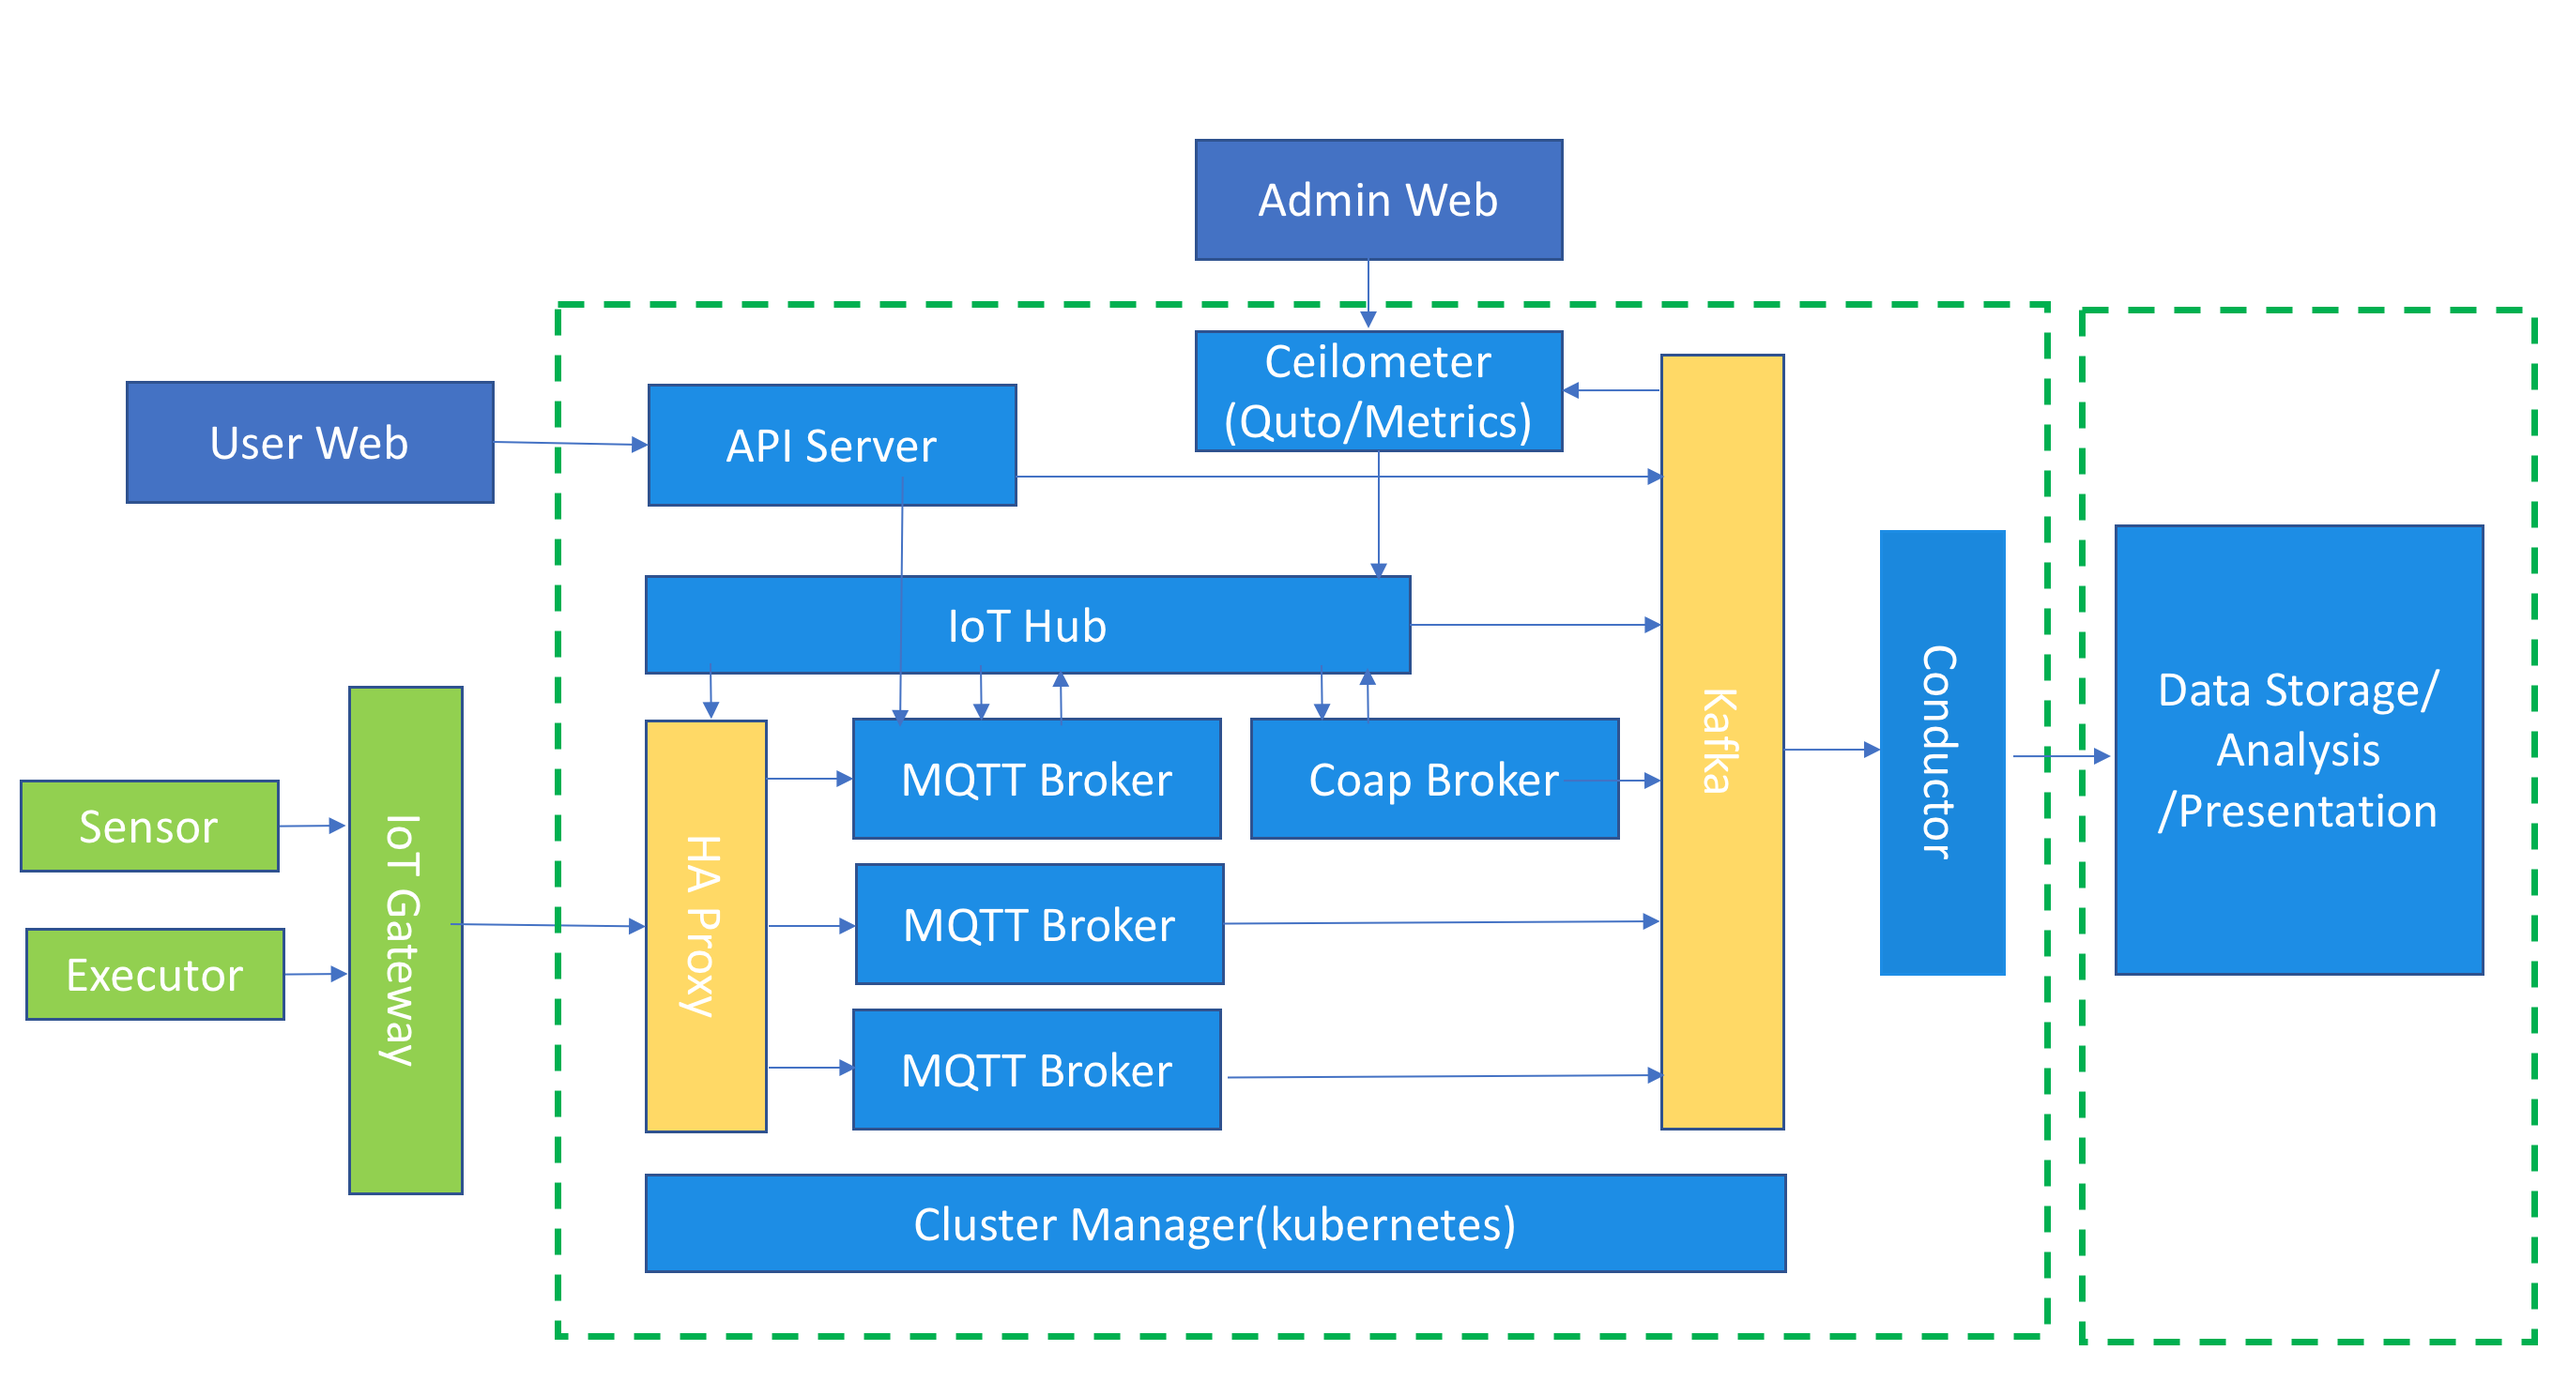
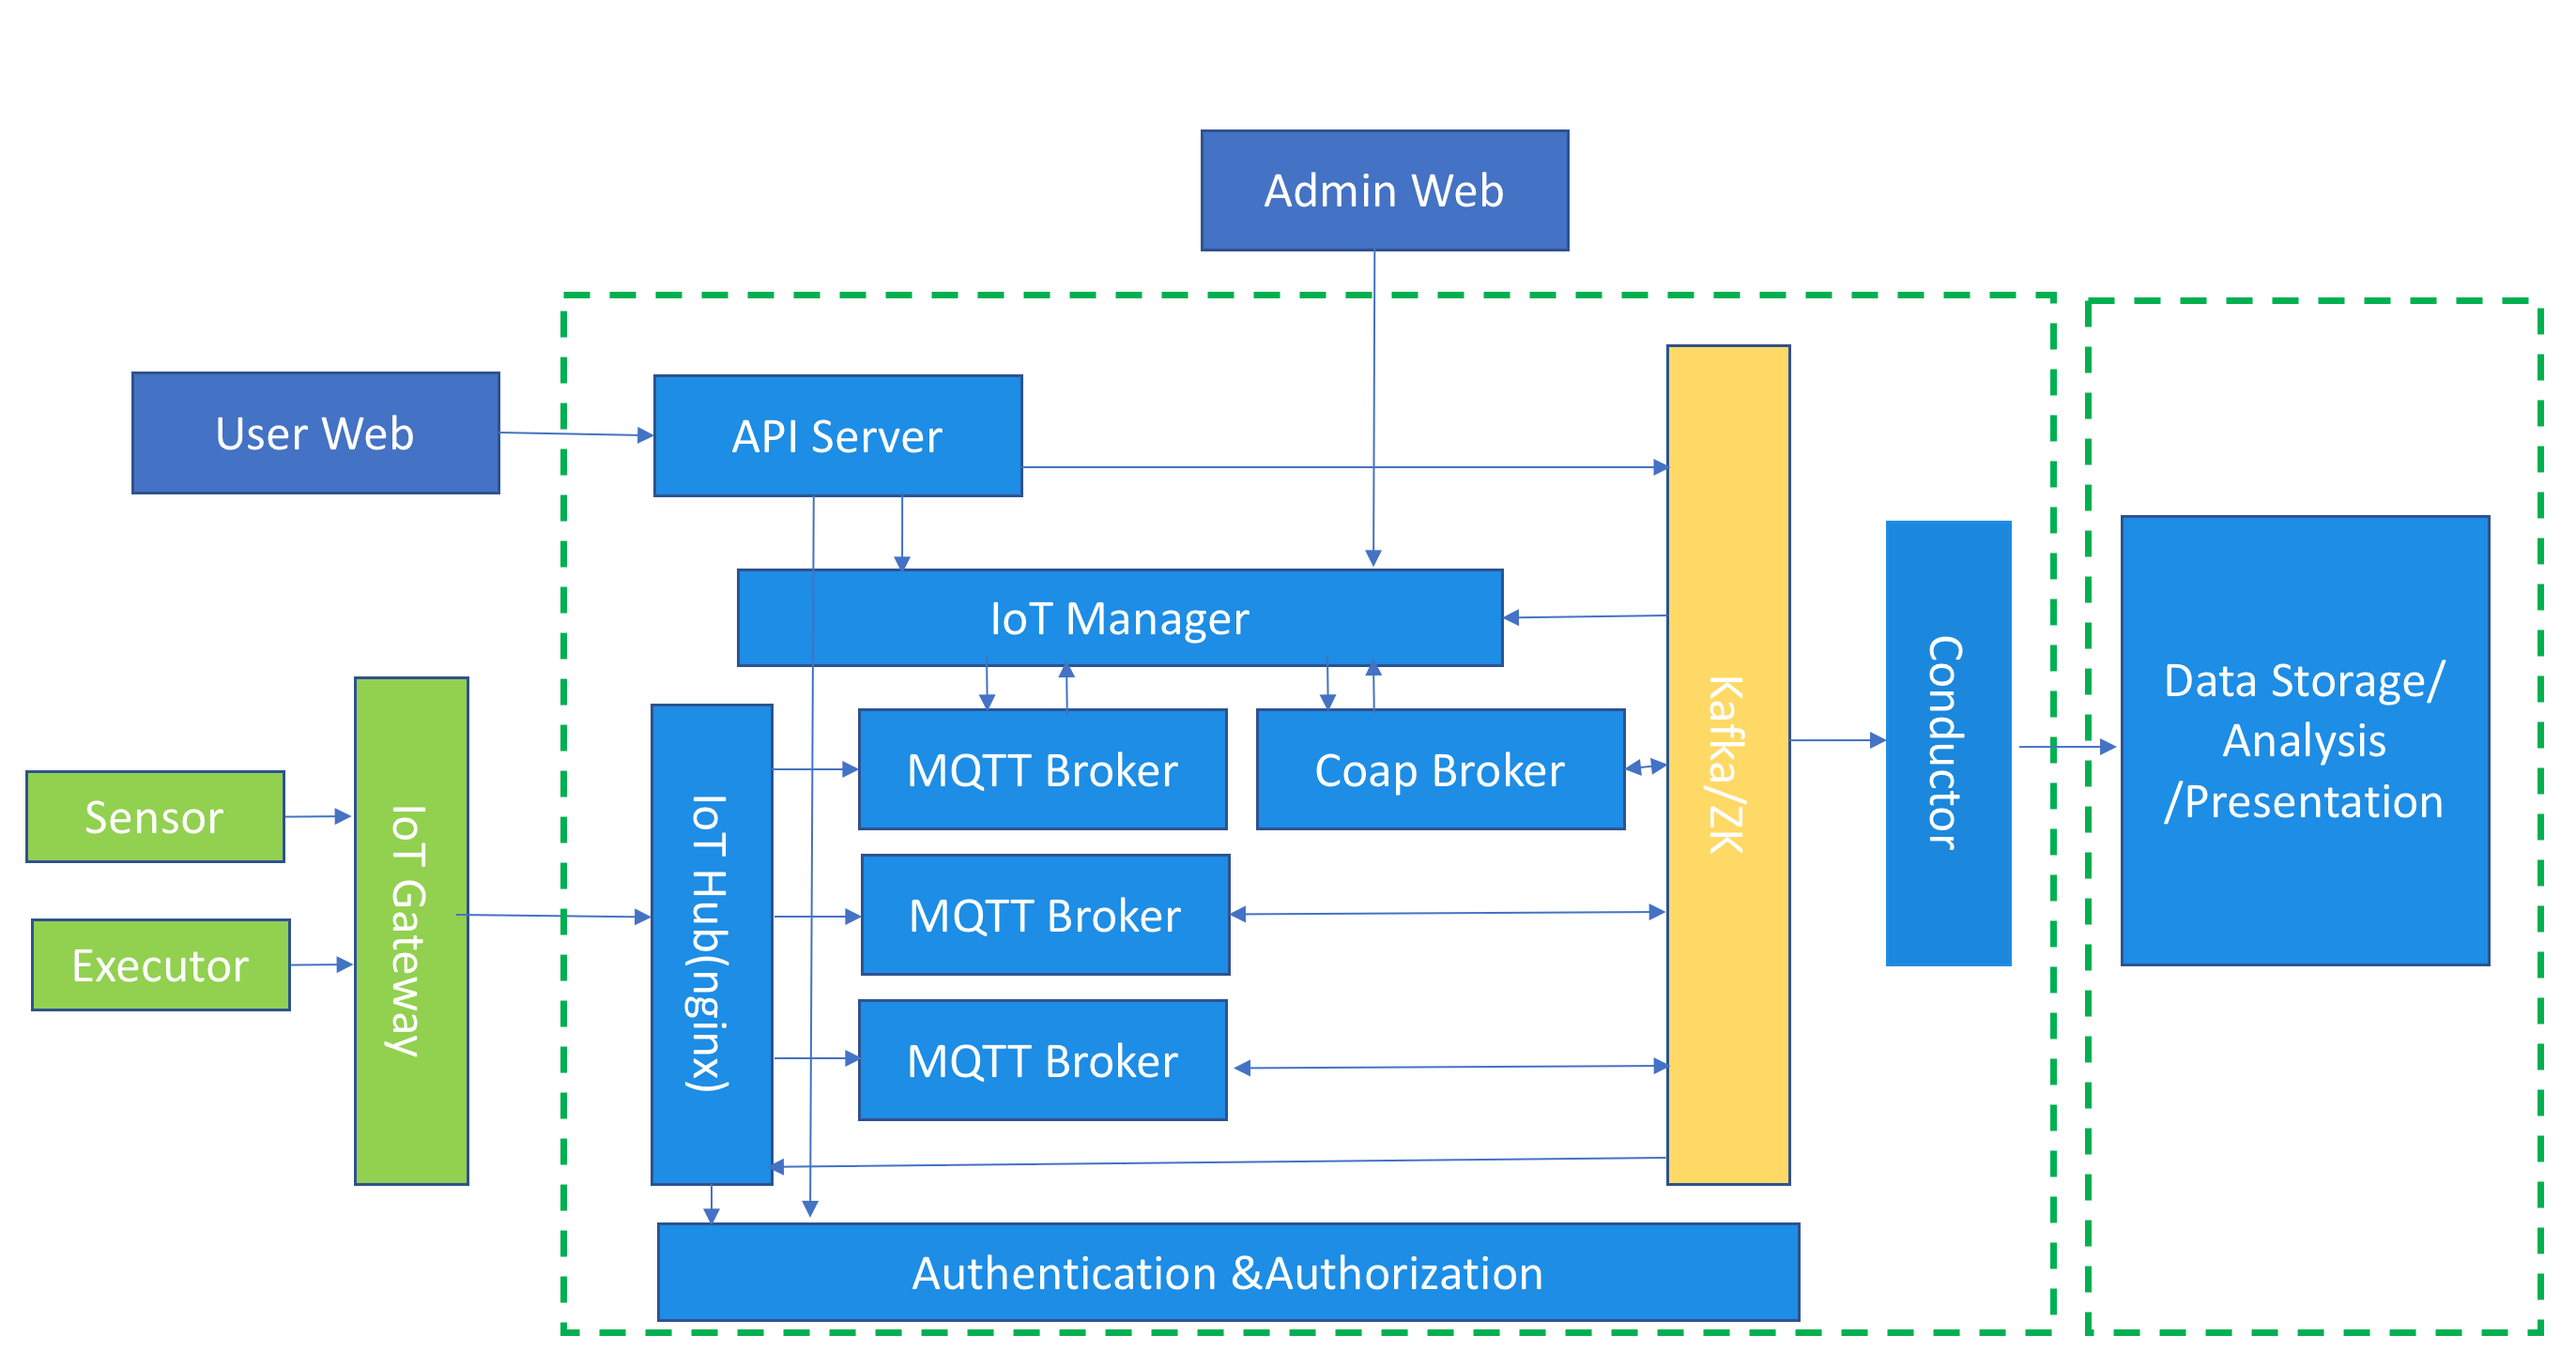
update sentel architecture image in docs

diff --git a/README.md b/README.md
@@ -3,15 +3,15 @@ Overview
 Sentel is iot cloud platform which can be deployed in private enterprise environment to provide the following functions.
 
 * Allow devices to connect with iot cloud platform by MQTT/Coap
-* Easyly manage products and devices using web services
+* Manage products and devices using web services
 * Many methods to analyze big data received from devices
 * High performance and availiabity
 
 Sentel is servie cluster based on micro service architecutre which include the following components.
 
- * API server is used for web, to provide iot manage role.
-*  Iothub server provide device connection and message service(MQTT/Coap)
-*  Keystone is authentication service
+* API server is used for web, to provide iot manage role.
+* Iothub server provide device connection and message service(MQTT/Coap)
+* Keystone is authentication service
 * Other service
  
 Other service is not be designed till now. because the short time gola is device connection and message or data transimation, Simply, the following user case can be implemented in short time.
